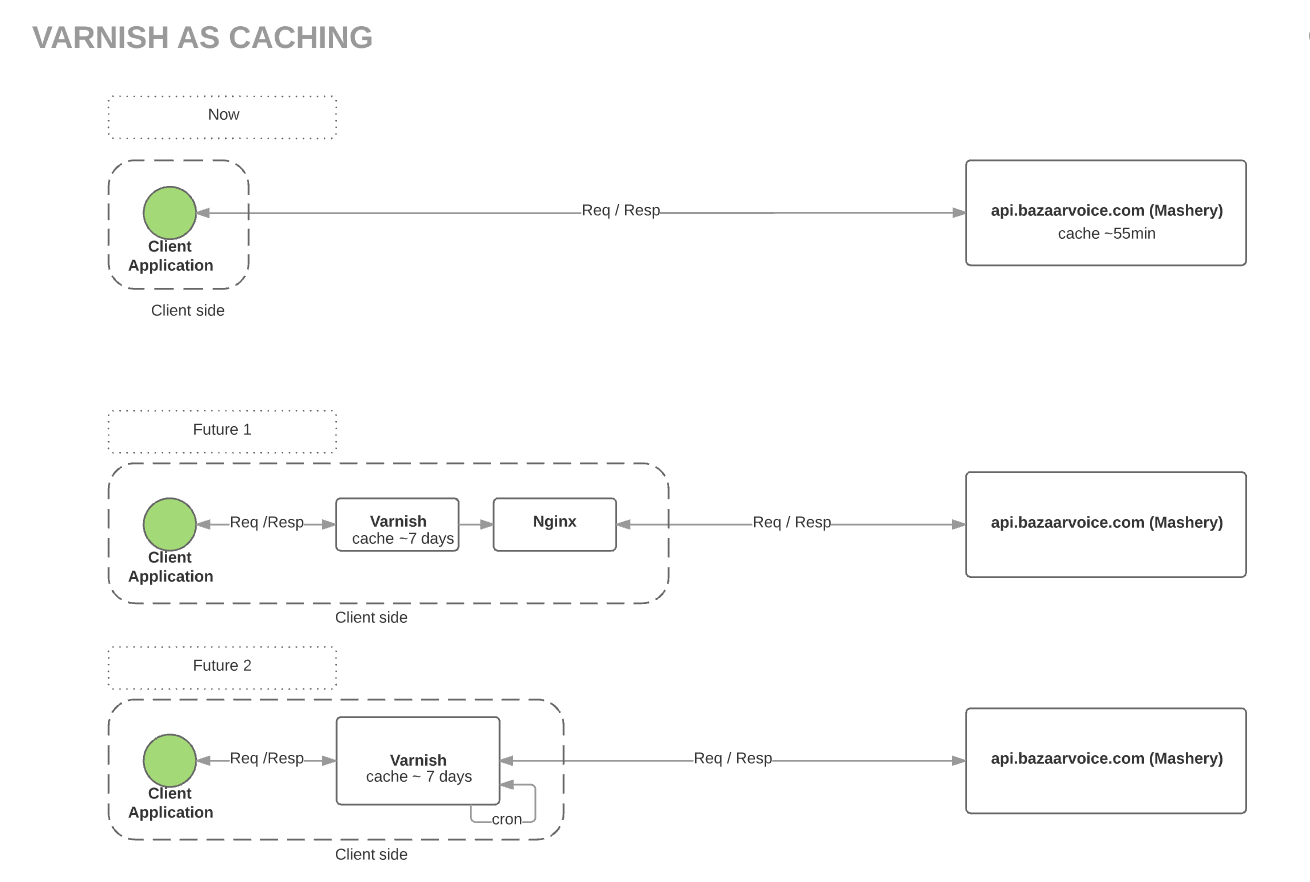
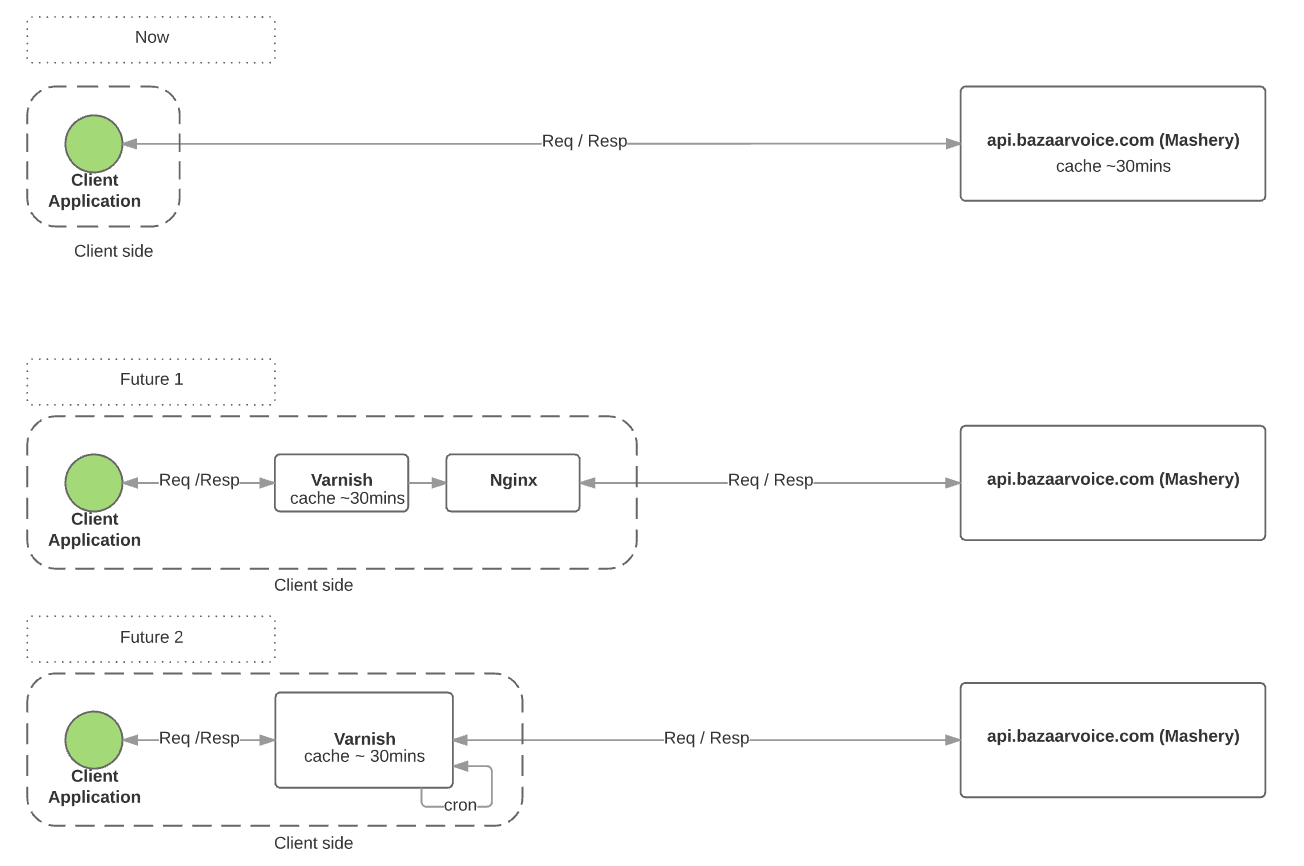
Edit README based on feedback

diff --git a/README.md b/README.md
@@ -1,20 +1,31 @@
 # bv-varnish-cache
 
-This is a guide example to set up Varnish as caching solution. For more caching options, please refer to https://developer.bazaarvoice.com/apis/conversations/tutorials/caching.
+This is a guide to set up Varnish as caching solution for the Bazaarvoice Conversations API. For more caching options, please refer to https://developer.bazaarvoice.com/apis/conversations/tutorials/caching.
 
 ## Introduction
-At present, concierge clients are hitting api.bazaarvoice.com (OR stg.api.bazaarvoice.com) on Mashery to get data they request. But Mashery caches responses for 55 minutes for most of requests (review submission are not cached). So, the same requests to Mashery within 55 minutes are not getting any new data because the responses are coming from cached data before. If clients can cache responses for requests locally for 55 minutes, it will benefits both clients (get fast response) and BV (number of requests on API is less). 
-For a lot of requests which query data from concierge API, responses are good for 7 days. So caching time can be set up to 7 days. To achieve, a caching solution is required in client side.
-There are several caching solutions in market. Here are the comparison of Varnish vs other caching solutions. https://www.quora.com/What-is-the-fundamental-difference-between-varnish-and-squid-caching-architectures and https://deliciousbrains.com/page-caching-varnish-vs-nginx-fastcgi-cache/ .
+At present, Conversations API clients are hitting api.bazaarvoice.com (OR stg.api.bazaarvoice.com) to get data they request. But CDN caches responses for 30 minutes for most requests (submission requests are not cached). So, the same requests to our CDN within 30 minutes are not getting any new data because the responses are coming from cached data. Therefore, if you cache responses locally for 30 minutes your application will get faster responses. 
+To achieve this, a caching solution is required in client side.
+
+## Why varnish is chosen?
+There are several caching solutions in market, like Varnish, Squid. Compared to others , Varnish has several advantages.
+* More configurable via VCL configuraiton file.
+* Better performance and scalability
+* Serve stale content when the cache has expired while triggering a fetch of fresh content. 
+
+For more information of comparison between Varnish vs other caching solutions, please refer to 
+* https://www.quora.com/What-is-the-fundamental-difference-between-varnish-and-squid-caching-architectures
+* https://deliciousbrains.com/page-caching-varnish-vs-nginx-fastcgi-cache/
 
 ## Architecture
 
-Varnish is a good solution for caching but there is one limitation. Varnish can only talk to backend server with IP specified or domain associated with one IP only. For existing concierge APIs (api.bazaarvoice.com and stg.api.bazaarvoice.com) , they are resolved to 2 IPs because they are ELBs. To handle limitation, two methods are proposed here.
-```
-  1. A Nginx is sitting between Varnish and backend server api.bazaarvoice.com (stg.api.bazaarvoice.com) as proxy.  Varnish points backend server to Nginx and Nginx proxy requests to api.bazaarvoice.com (stg.api.bazaarvoice.com).
-  2. A cron job executes a DSN resolving script, which updates IPs of api.bazaarvoice.com (stg.api.bazaarvoice.com) in backend_server.vcl, which is used by Varnish to set up backend servers, and reload new backend servers IPs without affecting cached objects.
-```
+Varnish is a good solution for caching, but there is one limitation: Varnish can only talk to backend server with pre-configured IP address or domain associated with one IP address only. This won't work with the Conversations API because api.bazaarvoice.com and stg.api.bazaarvoice.com are resolved to multiple IP addresses. To handle limitation, two methods are proposed here.
+1. Nginx is used as a proxy between Varnish and the Conversations API CDN. Varnish points backend server to Nginx and Nginx proxies requests to api.bazaarvoice.com or stg.api.bazaarvoice.com.
+2. A cron job executes a DSN resolving script, which updates IPs of api.bazaarvoice.com (stg.api.bazaarvoice.com) in backend_server.vcl, which is used by Varnish to set up backend servers, and reload new backend servers IPs without affecting cached objects.
+
+Varnish does not support SSL termination natively. If you decide move to https, please refer to [Use HTTPs with Varnish](#Use-HTTPs-with-Varnish).
+
 ![Varnish As caching](./pics/VarnishAsCaching.png?raw=true "Varnish As Caching")
+
 
 ## Setup
 
@@ -23,40 +34,46 @@ All set up is done on Mac OS 10.10.5. For more information on other systems, ple
 ### Install Varnish
 
 Varnish can be installed on different operating system. Please refer to this page for more details https://www.varnish-cache.org/releases/
+
 For Mac OS, following are steps.
-```
+
 1. Run 'brew update' //update brew itself
 2. Run 'brew install varnish'  //latest version 4.1 should be installed
-3. You should see a similar message after varnish is installed. (all parameters are example)
+3. You should see a similar message after varnish is installed.
+   ``` 
     To have launchd start varnish at login:
     ln -sfv /usr/local/opt/varnish/*.plist ~/Library/LaunchAgents
     Then to load varnish now:
     launchctl load ~/Library/LaunchAgents/homebrew.mxcl.varnish.plist
     Or, if you don't want/need launchctl, you can just run:
     /usr/local/sbin/varnishd -n /usr/local/var/varnish -f /usr/local/etc/varnish/default.vcl -s malloc,1G -T 127.0.0.1:2000 -a 0.0.0.0:8080
-```
+   ```
 
 ### Solution 1 (Varnish + Nginx)
 
 #### Install and set up Nginx
-Nginx can be installed on different operating system. Please refer to this page for more details http://nginx.org/en/docs/install.html
+Nginx can be installed on different operating systems. Please refer to http://nginx.org/en/docs/install.html for more details. 
+
 For Mac OS, following are steps.
-```
+
 1. Run 'brew update' //update brew itself
 2. Run 'brew install nginx'  //nginx 1.10 or later release should be installed
 3. Copy 'nginx.conf' under ./config/solution1/ to corresponding location. (In Mac OS, it is /usr/local/etc/nginx/)  
-4. Use editor to open 'nginx.conf' and change 'resolver x.x.x.x valid=300s;' to correponding DNS server you use. ('valid=300s' means Nginx refresh DSN records every 5 minutes; Removing it makes Nginx use TTL from DNS server). 
-   How to get DNS server
-   a. Run 'nslookup api.bazaarvoice.com' and you will get 
-   Server: 10.201.0.10
-   Address: 10.201.0.10#53
-   .....
-   Replace 'x.x.x.x' with '10.201.0.10'. 
-   b. Go to /etc/resolv.conf and you will find IPs of DNS servers . You can add more than 1 DNS server. For example 'resolver 10.0.0.1 10.0.0.2 valid=300s;'
+4. Use editor to open 'nginx.conf' and change 'resolver x.x.x.x valid=300s;' to correponding DNS server you use.
+   - 'valid=300s' means Nginx refresh DSN records every 5 minutes; Removing it makes Nginx use TTL from DNS server.
+   - You can add more than 1 DNS server. For example 'resolver 10.0.0.1 10.0.0.2 valid=300s;'.
+   - How to get DNS server
+     - Run 'nslookup api.bazaarvoice.com' and you will see a similar message
+       ```
+       Server: 10.201.0.10
+       Address: 10.201.0.10#53
+       ```
+     - Go to /etc/resolv.conf and you will find IPs of DNS servers. 
 5. Run 'sudo nginx' to run Nginx. Now Nginx is listening to 8080 . (You can change port number if you want, but make sure you set this port number in Varnish config file later).
 6. To stop Nginx, run 'sudo nginx -s stop' to stop Nginx.
 7. (Optional) If your application uses Nginx already, just copy this section to 'server' section in nginx.conf.
-    Edit existing nginx.conf
+    - Edit existing nginx.conf
+    ```
     server {
         ........
         resolver 10.201.0.10 valid=300s;    
@@ -71,118 +88,131 @@ For Mac OS, following are steps.
             proxy_pass $upstream_endpoint_stg;
         }
     }
-```
+    ```
 
 #### Run Varnish
-Assume Varnish is installed successfully in the machine.
+Assuming Varnish is installed successfully.
+
 For Mac OS, following are steps.
-```
+
 1. Copy 'default_nginx.vcl' under ./config/solution1/ to corresponding location. (In Mac OS, it is /usr/local/etc/varnish/) 
 2. Use editor to open 'default_nginx.vcl' and make corresponding change to point to Nginx (if necessary)
-   edit default.vcl
+   - Edit default.vcl
+   ```
     # Default backend. It should point to nginx server configured. 
     backend default {
         .host = "127.0.0.1"; //nginx ip
         .port = "8080"; //niginx port
     }
-3. Run Varnish by running " /usr/local/sbin/varnishd -n /usr/local/var/varnish -f /usr/local/etc/varnish/default_nginx.vcl -s malloc,5G -T 127.0.0.1:2000 -a 127.0.0.1:8082 "
-    /usr/local/sbin/varnishd This is path to varnishd after installation.
-    -n Specify the name for this Varnish instance. (optional)
-    -f  path to 'default_nginx.vcl'
-    -a 127.0.0.1:8082 the port where varnish will run
-    -T 127.0.0.1:2000 is where the varnishadm console wil run and it is useful to have for things like purging and banning. (optional) 
-     -s malloc,5G 5G memory will be used to store cache (You can use different storage for cache. For more details , please refer to at https://www.varnish-cache.org/docs/trunk/users-guide/storage-backends.html. Varnish will recycle space with LRU (least recently used) strategy to remove items from cache when the cache becomes full with things whose TTL (time to live) has not expired (so first remove things whose TTL is expired, if the cache is still full remove things least recently accessed.)
-    For more options to run Varnish , please refer to https://www.varnish-cache.org/docs/4.0/reference/varnishd.html 
-```
-Now , Varsnish can be accessible at http://localhost:8082 . (You have to specify backend server at /usr/local/etc/varnish/default.vcl , otherwise, you will see "Error 503 Backend fetch failed").
-Make your client application call tohttp://localhost:8082/api (or http://localhost:8082/stg_api) instead of calling to http://api.bazaarvoice.com/ (or  http://stg.api.bazaarvoice.com/ ) and everything is set.
+   ``` 
+3. Start Varnish by running ``` /usr/local/sbin/varnishd -n /usr/local/var/varnish -f /usr/local/etc/varnish/default_nginx.vcl -s malloc,5G -T 127.0.0.1:2000 -a 127.0.0.1:8082 ```
+    - For more options to start Varnish , please refer to https://www.varnish-cache.org/docs/4.0/reference/varnishd.html
+    - parameters
+      - /usr/local/sbin/varnishd : This is path to varnishd after installation.
+      - -n : Specify the name for this Varnish instance. (optional)
+      - -f : path to 'default_nginx.vcl'
+      - -a : 127.0.0.1:8082 the port where varnish will run
+      - -T : 127.0.0.1:2000 is where the varnishadm console wil run and it is useful to have for things like purging and banning. (optional) 
+      - -s malloc,5G : 5G memory will be used to store cache. 
+        - You can use different storage for cache. For more details , please refer to https://www.varnish-cache.org/docs/trunk/users-guide/storage-backends.html. [How Varnish Recycles Space](#How-Varnish-recycles-space)
+     
+4.  Varsnish should be accessible at http://localhost:8082 . (You have to specify backend server at /usr/local/etc/varnish/default.vcl , otherwise, you will see "Error 503 Backend fetch failed").
+    - Make your client application call tohttp://localhost:8082/api (or http://localhost:8082/stg_api) instead of calling to http://api.bazaarvoice.com/ (or  http://stg.api.bazaarvoice.com/ ).
 
 ### Solution 2 (Varnish + cron)
 
 #### Run Varnish
-Assume Varnish is installed successfully in the machine.
+Assuming Varnish is installed successfully.
+
 For Mac OS, following are steps.
-```
+
 1. Copy 'default.vcl' , 'backend_servers.vcl'  and 'update_dns.sh' under ./config/solution2/ to corresponding location. (In Mac OS, it is /usr/local/etc/varnish/) 
 2. (Optional) Use editor to open 'default.vcl' and make corresponding change to include 'backend_servers.vcl'.
-    edit default.vcl
+    - edit default.vcl
+    ```
     # include should use absolute path; otherwise, Varnish complains.
     include "/usr/local/etc/varnish/backend_servers.vcl";
+    ```
 3. Run 'update_dns.sh' once before you run Varnish
-    #for the first time running before Varnish runs, you will see some error message and ignore it because your Varnish is not running yet.
-    Abandoned VSM file (Varnish not running?) /usr/local/var/varnish/_.vsm
-    Failed to compile new varnish file 
-4.  Add a cron job to crontab and backend_servers.vcl will be updated periodically and reloaded by Varnish without affecting cached objects.
-    crontab job
-    #  This is example in Mac Os. Change to your own absolute path here. You can see logs in /tmp/stdout.log and /tmp/stderr.log to track periodic update.
-    # 1st parameter is the same as '-n' when you run Varnish and 2nd is path to 'default.vcl'
-    # If you are running Linux, you may want to change line 92 '... awk '{print $4;}' ...' to '... awk '{print $3;}' ...'
-    * * * * * /usr/local/etc/varnish/update_dns.sh /usr/local/var/varnish /usr/local/etc/varnish
-5. Run Varnish by running " /usr/local/sbin/varnishd -n /usr/local/var/varnish -f /usr/local/etc/varnish/default_nginx.vcl -s malloc,5G -T 127.0.0.1:2000 -a 127.0.0.1:8082 "
-```
-Now , Varsnish can be accessible at http://localhost:8082 . (You have to specify backend server at /usr/local/etc/varnish/default.vcl , otherwise, you will see "Error 503 Backend fetch failed").
-Make your client application call tohttp://localhost:8082/api (or http://localhost:8082/stg_api) instead of calling to http://api.bazaarvoice.com/ (or  http://stg.api.bazaarvoice.com/ ) and everything is set.
-
-## Others
-This section lists other knowledge you may be interested in. 
-
-1. Kill varnish by running "sudo pkill varnishd"  
-2. If you change 'default.vcl' when Varnish is running already, you can reload this new 'default.vcl' in 2 ways.
-    ```
-    1. reload your VCL and wipe your cache in the process by running "sudo pkill varnishd " and "sudo /usr/local/sbin/varnishd -n /usr/local/var/varnish -f /usr/local/etc/varnish/default.vcl -s malloc,1G -T 127.0.0.1:2000 -a 127.0.0.1:8082" 
-    2. reload your VCL without wiping your cache by running
-          varnishadm -n /usr/local/var/varnish
-          vcl.load reload01 /usr/local/etc/varnish/default.vcl
-          vcl.use reload01
-    ```
-    Note: 'reload01' is a random name and you could choose anything technically. Note, each time you reload the VCL file, you'll need to provide a unique name, so the second time you reload the VCL file you would use different string like reload02, reload03, etc.
-       
-3. Check statistics of Varnish
+   - The first time you do this, before Varnish has been started, you will see an error message which you can ignore because Varnish is not running yet.
+   ``` 
+   Abandoned VSM file (Varnish not running?) /usr/local/var/varnish/_.vsm
+   Failed to compile new varnish file 
+   ```
+4.  Add a cron job to crontab and backend_servers.vcl will be updated periodically and reloaded without affecting cached objects.
+    - crontab
     
-    Varnish comes with a couple of nifty and very useful statistics generating tools that generates statistics in real time by constantly updating and presenting a specific dataset by aggregating and analyzing logdata from the shared memory logs. Please refer to https://www.varnish-cache.org/docs/4.0/users-guide/operation-statistics.html for moe details.
-    For example, to see a continuously updated histogram of hits/misses of cached objects, run 'varnishhist -n /usr/local/var/varnish'.
     ```
-        Note: If you run varnish with '-n', all statistics commands should have this option too; otherwise, you will see         
+    * * * * * /usr/local/etc/varnish/update_dns.sh /usr/local/var/varnish /usr/local/etc/varnish
+    ```
+    - Important: This is example in Mac Os. Change to your own absolute path here. You can see logs in /tmp/stdout.log and /tmp/stderr.log to track periodic update.
+      - 1st parameter is the same as '-n' when you run Varnish and 2nd is path to 'default.vcl'
+      - If you are running Linux, you may want to change line 92 '... awk '{print $4;}' ...' to '... awk '{print $3;}' ...'
+5. Start Varnish by running ```/usr/local/sbin/varnishd -n /usr/local/var/varnish -f /usr/local/etc/varnish/default_nginx.vcl -s malloc,5G -T 127.0.0.1:2000 -a 127.0.0.1:8082```
+
+6. Varsnish should be accessible at http://localhost:8082 . (You have to specify backend server at /usr/local/etc/varnish/default.vcl , otherwise, you will see "Error 503 Backend fetch failed").
+   - Make your client application call tohttp://localhost:8082/api (or http://localhost:8082/stg_api) instead of calling to http://api.bazaarvoice.com/ (or  http://stg.api.bazaarvoice.com/ ).
+
+## Additional information
+This section lists additional information you may be interested in. 
+
+### Reload new vcl
+If you change 'default.vcl' when Varnish is running already, you can reload this new 'default.vcl' in 2 ways.
+1. reload your VCL and wipe your cache in the process by running ```sudo pkill varnishd``` and ```sudo /usr/local/sbin/varnishd -n /usr/local/var/varnish -f /usr/local/etc/varnish/default.vcl -s malloc,1G -T 127.0.0.1:2000 -a 127.0.0.1:8082``` 
+2. reload your VCL without wiping your cache by running following commands.
+   ``` 
+   varnishadm -n /usr/local/var/varnish
+   vcl.load reload01 /usr/local/etc/varnish/default.vcl
+   vcl.use reload01
+   ```
+   - Important: 'reload01' is a random name and you could choose anything technically. Note, each time you reload the VCL file, you'll need to provide a unique name, so the second time you reload the VCL file you would use different string like reload02, reload03, etc.
+       
+### Statistics of Varnish
+Varnish comes with a couple of nifty and very useful tools that generate statistics in real time. They constantly update and present a specific dataset by aggregating and analyzing logdata from the shared memory logs. 
+
+Please refer to https://www.varnish-cache.org/docs/4.0/users-guide/operation-statistics.html for moe details.
+
+1. To see a continuously updated histogram of hits/misses of cached objects, run ```varnishhist -n /usr/local/var/varnish```.
+   - Important: If you run varnish with '-n', all statistics commands should have this option too; otherwise, you will see         
+     ```
         Can't open log - retrying for 5 seconds
         Can't open VSM file (Cannot open /usr/local/var/varnish/mycomputer.local/_.vsm: No such file or directory
-    ```    
-    To resolve this issue, you can run
-    ```
-        a. $ varnishhist -n /usr/local/var/varnish  
-        OR
-        b. $ ln -s /usr/local/var/varnish /usr/local/var/varnish/mycomputer.local/_.vsm'
-        $ varnishhist
-    ```
-
+     ```    
+   
     ![varnishhist](./pics/varnishhist.png?raw=true "varnishhist -n /usr/local/var/varnish  '|' means 'hit' ,  '#' means 'miss'")
-    
+            
+2. To resolve this issue, you can run 
+   1. ```varnishhist -n /usr/local/var/varnish ``` 
+   2. 
+     - ```ln -s /usr/local/var/varnish /usr/local/var/varnish/mycomputer.local/_.vsm' ``` 
+     - ```varnishhist```  
     
     ![varnishstat](./pics/varnishstat.png?raw=true "varnishstat -n /usr/local/var/varnish")
      
      Please refer to http://book.varnish-software.com/4.0/chapters/Examining_Varnish_Server_s_Output.html#varnishstat for explaination of statistics.
      
-4. To see if reponse is returned because of 'hit' or 'miss' (by retrieving backend server), you can check 'X-Cache' in reponse header. 'HIT' means 'hit' and 'MISS' means response is retrieved from backend server because response is not cached or expires.
+### Hit or Miss
+To see if reponse is returned because of 'hit' or 'miss' (by retrieving backend server), you can check 'X-Cache' in reponse header. 'HIT' means 'hit' and 'MISS' means response is retrieved from backend server because response is not cached or expires.
 
     ![x-cache](./pics/x-cache.png?raw=true "x-cache")
 
-5. Accept 'https' in Varnish 
-   Varnish does not support SSL termination natively. If you decide move to https, does it mean that your sites, which use Varnish as a proxy cache, would remain without HTTPS forever ? No, we have several options to support this. Basically, we want to put a proxy between client and Varnish, which will route https requests to Varnish via http.  
-   ```
-       a. Nginx 
-          Here are several articles about how to use nginx as proxy.
-          https://www.digitalocean.com/community/tutorials/how-to-configure-varnish-cache-4-0-with-ssl-termination-on-ubuntu-14-04
-          https://komelin.com/articles/https-varnish
-          https://www.smashingmagazine.com/2015/09/https-everywhere-with-nginx-varnish-apache/
-       b. Pound
-          Here is the article of how to use Pound as proxy. 
-          https://dev.acquia.com/blog/why-pound-awesome-front-varnish
-       c. Hitch
-          https://info.varnish-software.com/blog/five-steps-to-secure-varnish-with-hitch-and-lets-encrypt
-       d. HAProxy
-          https://blog.feryn.eu/varnish-4-1-haproxy-get-the-real-ip-by-leveraging-proxy-protocol-support/
-   ```  
-6. Concerned about flushing your backend server?
-   Varnish has configuration of how many concurrent connections to backend server. You can set it at default.vcl , like this 
+### Use HTTPs with Varnish
+Varnish does not support SSL termination. If you decide move to https, does it mean that your sites, which use Varnish as a proxy cache, would remain without HTTPS forever ? No, you have several options to support this. Basically, you want to put a proxy between client and Varnish, which will route https requests to Varnish via http.  
+- Nginx 
+  Here are several articles about how to use nginx as proxy.
+  - https://www.digitalocean.com/community/tutorials/how-to-configure-varnish-cache-4-0-with-ssl-termination-on-ubuntu-14-04
+  - https://komelin.com/articles/https-varnish
+  - https://www.smashingmagazine.com/2015/09/https-everywhere-with-nginx-varnish-apache/
+- Pound
+  Here is the article of how to use Pound as proxy. 
+  - https://dev.acquia.com/blog/why-pound-awesome-front-varnish
+- Hitch
+  - https://info.varnish-software.com/blog/five-steps-to-secure-varnish-with-hitch-and-lets-encrypt
+- HAProxy
+  - https://blog.feryn.eu/varnish-4-1-haproxy-get-the-real-ip-by-leveraging-proxy-protocol-support/
+
+### Concurrent connections
+Varnish supports concurrent connections to backend servers by configuration.  This parameter can be set in default.vcl, like this 
    ```
    # Default backend. It should point to nginx server configured. 
    backend default {
@@ -192,14 +222,17 @@ This section lists other knowledge you may be interested in.
        .max_connections = 100 //100 simultaneous connections are allowed.
    }
    ```
-7. Is stale object good to use?
-   Varnish Cache will prefer a fresh object, but when one cannot be found Varnish will look for stale one. When it is found it will be delivered and Varnish will kick off the asynchronous request. It is serving the request with a stale object while refreshing it. It is basically stale-while-revalidate.
-   ```
-    1. A graced object is an object that has expired, but is still kept in cache
-    2. Grace mode is when Varnish uses a graced object.
-    3. There is more than one way Varnish can end up using a graced object.
-    4. req.grace defines how long overdue an object can be for Varnish to still consider it for grace mode.
-    5. beresp.grace defines how long past the beresp.ttl-time Varnish will keep an object
-    6. req.grace is often modified in vcl_recv based on the state of the backend.
-   ```
-   When setting up grace, you will need to modify both vcl_recv and vcl_fetch to use grace effectively. The typical way to use grace is to store an object for several hours past its TTL, but only use it a few seconds after the TTL, except if the backend is sick. (Note: You can use set req.grace = 0s; to ensure that editorial staff doesn’t get older objects (assuming they also don’t hit the cache))
+   
+### Stale objects
+Varnish Cache will prefer a fresh object, but when one cannot be found Varnish will look for stale one. When it is found it will be delivered and Varnish will kick off the asynchronous request. It is serving the request with a stale object while refreshing it. It is basically stale-while-revalidate.
+* A graced object is an object that has expired, but is still kept in cache
+* Grace mode is when Varnish uses a graced object.
+* There is more than one way Varnish can end up using a graced object.
+* req.grace defines how long overdue an object can be for Varnish to still consider it for grace mode.
+* beresp.grace defines how long past the beresp.ttl-time Varnish will keep an object
+* req.grace is often modified in vcl_recv based on the state of the backend.
+
+When setting up grace, you will need to modify both vcl_recv and vcl_fetch to use grace effectively. The typical way to use grace is to store an object for several hours past its TTL, but only use it a few seconds after the TTL, except if the backend is sick.
+
+### How Varnish recycles space
+   Varnish will recycle space with LRU (least recently used) strategy to remove items from cache when the cache becomes full with things whose TTL (time to live) has not expired (so first remove things whose TTL is expired, if the cache is still full remove things least recently accessed.
